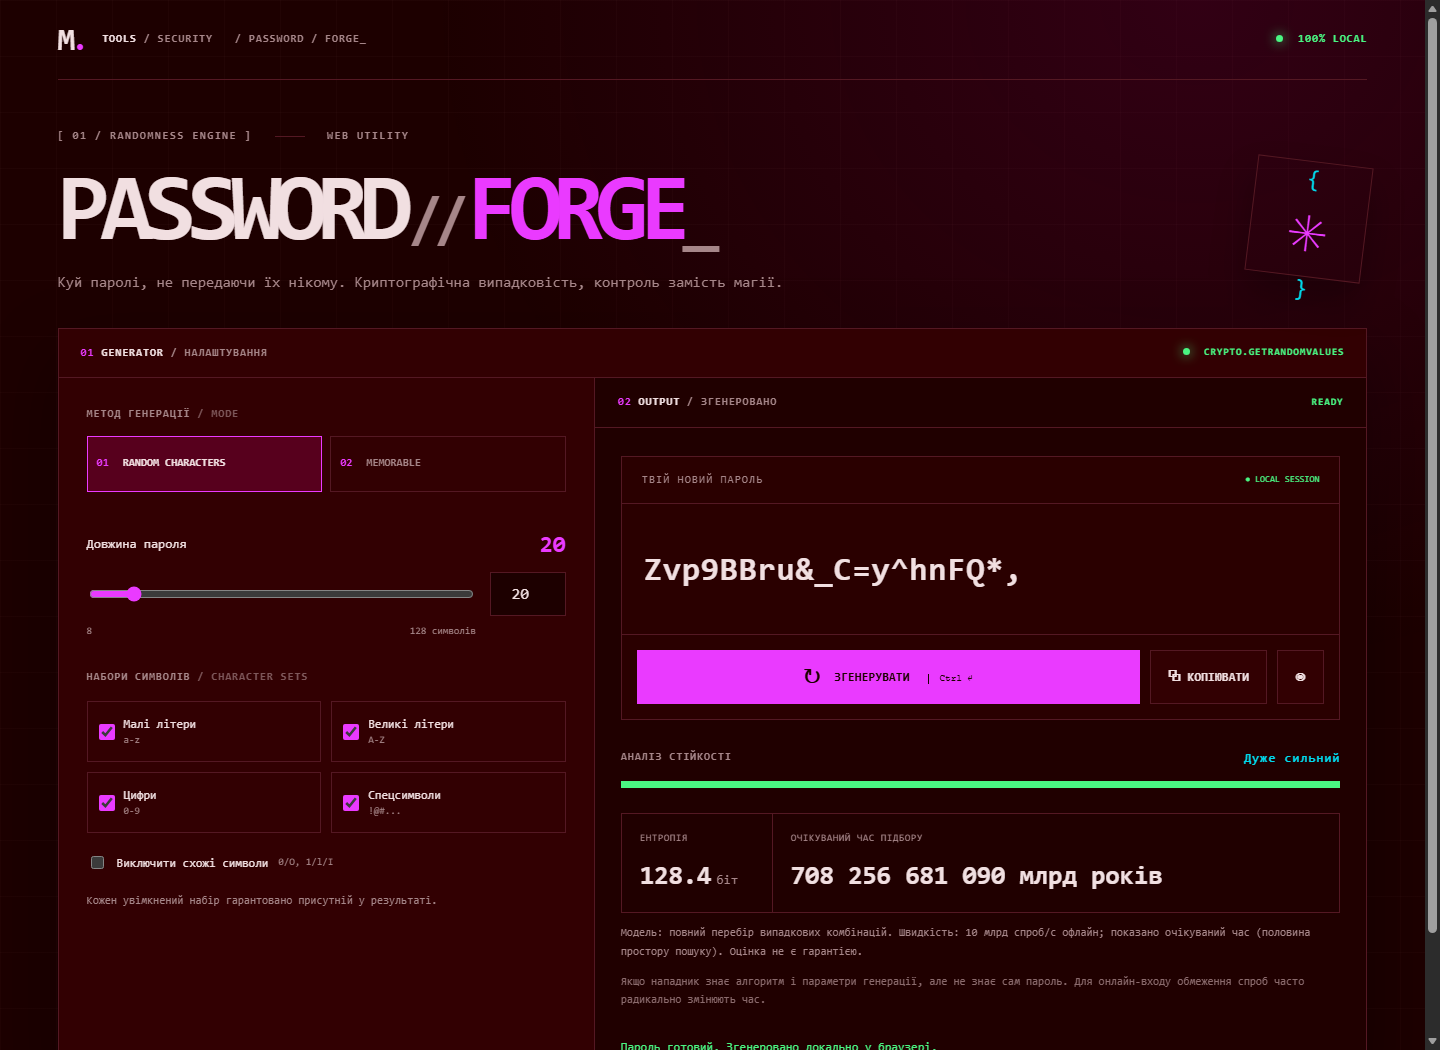
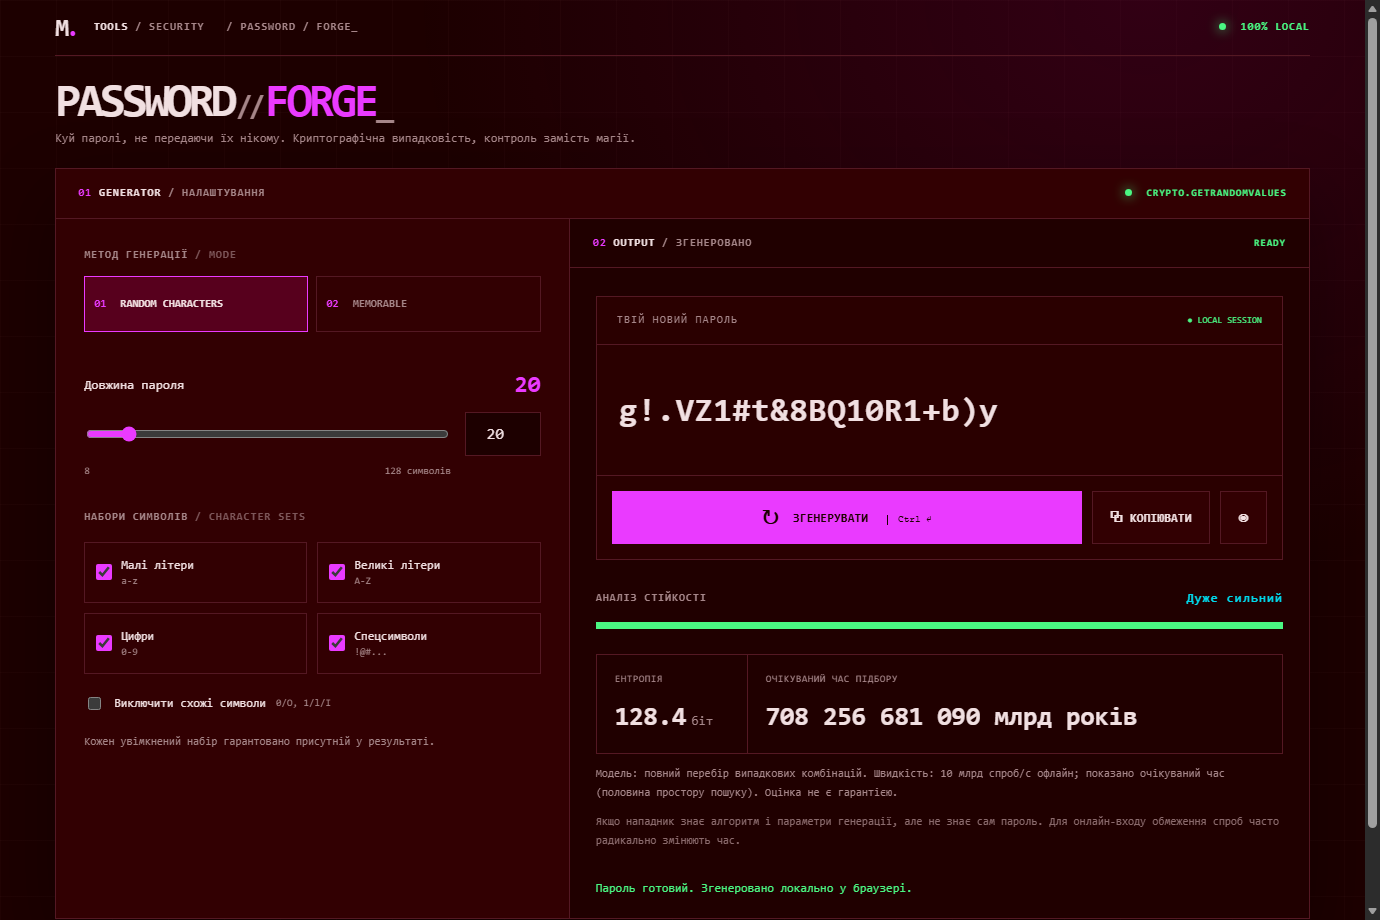
feat: compact header and configurable memorable passphrases

diff --git a/app.js b/app.js
@@ -2,6 +2,7 @@ import { randomPassword, randomPhrase, characterEntropy, phraseEntropy, estimate
 
 const el = id => document.getElementById(id);
 const toggles = ['lower','upper','digits','symbols','unambiguous'];
+const phraseToggles = ['phrase-upper','phrase-digits','phrase-symbols'];
 let mode = 'random';
 let words = null;
 let current = '';
@@ -14,6 +15,13 @@ function error(message) {
 function opts() {
   return {length:Number(el('length').value), ...Object.fromEntries(toggles.map(k => [k, el(k).checked]))};
 }
+function phraseOpts() {
+  return {
+    uppercase: el('phrase-upper').checked,
+    digits: el('phrase-digits').checked,
+    symbols: el('phrase-symbols').checked
+  };
+}
 function clampRange(name,min,max) {
   const slider=el(name), number=el(name+'-number');
   const raw=Number(number.value);
@@ -24,7 +32,7 @@ function clampRange(name,min,max) {
 function render() {
   if (!current || (mode === 'phrase' && !words)) return;
   el('password').textContent = visible ? current : '•'.repeat(Math.min(current.length,128));
-  const bits = mode==='random' ? characterEntropy(opts()) : phraseEntropy(words.length,Number(el('words').value));
+  const bits = mode==='random' ? characterEntropy(opts()) : phraseEntropy(words.length,Number(el('words').value),phraseOpts());
   const grade = strength(bits);
   el('strength-label').textContent = grade.text;
   const meter = el('meter-fill').parentElement;
@@ -34,13 +42,13 @@ function render() {
   el('time').textContent = humanTime(estimateSeconds(bits));
   el('attack-desc').textContent = (mode==='random'
     ? 'Модель: повний перебір випадкових комбінацій.'
-    : 'Модель: словниковий перебір комбінацій зі списку EFF, якщо алгоритм генерації відомий.')
+    : 'Модель: перебір усіх комбінацій слів EFF, регістру та ввімкнених випадкових суфіксів, якщо алгоритм відомий.')
     + ' Швидкість: 10 млрд спроб/с офлайн; показано очікуваний час (половина простору пошуку). Оцінка не є гарантією.';
 }
 function generate() {
   try {
     if (mode==='phrase' && !words) { current=''; el('password').textContent='Завантаження словника…'; error('Словник ще завантажується.');return; }
-    const value = mode==='random' ? randomPassword(opts()) : randomPhrase(words,Number(el('words').value),el('separator').value);
+    const value = mode==='random' ? randomPassword(opts()) : randomPhrase(words,Number(el('words').value),el('separator').value,globalThis.crypto,phraseOpts());
     current=value; el('status').textContent='READY';
     el('feedback').textContent='Пароль готовий. Згенеровано локально у браузері.';
     render();
@@ -65,7 +73,7 @@ for(const name of ['length','words']) {
   range.addEventListener('change',generate);
   number.addEventListener('change',()=>{clampRange(name,min,max);generate()});
 }
-for (const name of toggles) el(name).addEventListener('change',generate);
+for (const name of [...toggles, ...phraseToggles]) el(name).addEventListener('change',generate);
 el('separator').addEventListener('change',generate);
 el('generate').addEventListener('click',generate);
 el('show').addEventListener('click',()=>{

diff --git a/logic.js b/logic.js
@@ -4,6 +4,7 @@ export const DIGITS = '0123456789';
 export const SYMBOLS = '!@#$%^&*()-_=+[]{};:,.?/';
 export const AMBIGUOUS = new Set('Il1O0o|');
 export const ATTACK_RATE = 1e10;
+export const PHRASE_SYMBOLS = '!@#$%^&*+?=';
 
 export function secureInt(max, cryptoSource = globalThis.crypto) {
   if (!Number.isSafeInteger(max) || max <= 0 || max > 4294967296) throw new RangeError('invalid random bound');
@@ -38,11 +39,28 @@ export function randomPassword(opts, cryptoSource = globalThis.crypto) {
   throw new Error('Could not satisfy chosen constraints');
 }
 
-export function randomPhrase(words, count, separator = '-', cryptoSource = globalThis.crypto) {
+export function randomPhrase(words, count, separator = '-', cryptoSource = globalThis.crypto, options = {}) {
   if (!Array.isArray(words) || words.length < 1000 || !words.every(w => /^[a-z]+$/.test(w))) throw new Error('Invalid dictionary');
   if (!Number.isInteger(count) || count < 4 || count > 12) throw new RangeError('words: 4..12');
   if (!['-', ' ', '.', '_'].includes(separator)) throw new Error('Invalid separator');
-  return Array.from({ length: count }, () => words[secureInt(words.length, cryptoSource)]).join(separator);
+
+  const selected = Array.from({ length: count }, () => words[secureInt(words.length, cryptoSource)]);
+
+  // Non-zero capitalization mask: every enabled output has >=1 capitalized word.
+  // Each mask is equiprobable; no extra entropy is claimed for deterministic casing.
+  if (options.uppercase) {
+    const mask = 1 + secureInt(2 ** count - 1, cryptoSource);
+    for (let i = 0; i < count; i++) {
+      if (mask & (1 << i)) selected[i] = selected[i][0].toUpperCase() + selected[i].slice(1);
+    }
+  }
+  // Stable, non-overlapping suffix positions allow exact output-count accounting.
+  let result = selected.join(separator);
+  if (options.digits) {
+    result += DIGITS[secureInt(10, cryptoSource)] + DIGITS[secureInt(10, cryptoSource)];
+  }
+  if (options.symbols) result += PHRASE_SYMBOLS[secureInt(PHRASE_SYMBOLS.length, cryptoSource)];
+  return result;
 }
 
 export function characterEntropy(opts) {
@@ -61,9 +79,13 @@ export function characterEntropy(opts) {
   return opts.length * Math.log2(total) + Math.log2(Math.max(Number.MIN_VALUE, probability));
 }
 
-export function phraseEntropy(dictionarySize, count) {
+export function phraseEntropy(dictionarySize, count, options = {}) {
   if (dictionarySize < 2 || count < 1) return 0;
-  return count * Math.log2(dictionarySize);
+  const wordsBits = count * Math.log2(dictionarySize);
+  const capitalizationBits = options.uppercase ? Math.log2(2 ** count - 1) : 0;
+  const digitsBits = options.digits ? Math.log2(100) : 0;
+  const symbolsBits = options.symbols ? Math.log2(PHRASE_SYMBOLS.length) : 0;
+  return wordsBits + capitalizationBits + digitsBits + symbolsBits;
 }
 
 export function estimateSeconds(bits, rate = ATTACK_RATE) {

diff --git a/index.html b/index.html
@@ -81,7 +81,13 @@
               <option value="_">Підкреслення ( _ )</option>
             </select>
           </label>
-          <p class="small-note">Слова обираються криптографічно з англомовного списку EFF. Це випадкова фраза, а не цитата.</p>
+          <div class="section-label spaced">ДОДАТКОВІ СИМВОЛИ <span>/ OPTIONAL</span></div>
+          <div class="checks phrase-checks">
+            <label><input id="phrase-upper" type="checkbox"><span>Верхній регістр <small>Випадкові слова з великої</small></span></label>
+            <label><input id="phrase-digits" type="checkbox"><span>Цифри <small>2 випадкові наприкінці</small></span></label>
+            <label><input id="phrase-symbols" type="checkbox"><span>Спецсимвол <small>1 випадковий наприкінці</small></span></label>
+          </div>
+          <p class="small-note">Слова обираються криптографічно зі словника EFF. Великі літери розподіляються випадково, цифри й спецсимвол додаються суфіксами; їхня ентропія врахована.</p>
         </div>
       </section>
 

diff --git a/style.css b/style.css
@@ -116,3 +116,23 @@ kbd{font-size:9px;font-weight:400;margin-left:12px;border-left:1px solid current
  h1{font-size:clamp(2.4rem,9vw,4rem)}
 }
 @media(prefers-reduced-motion:reduce){*{transition:none!important}}
+
+/* Compact application header: prioritize generator controls above the fold. */
+.topbar{min-height:56px}
+.brand strong{font-size:25px}
+.hero{padding:18px 0 21px}
+.hero .eyebrow{display:none}
+.hero h1{font-size:clamp(1.8rem,3.4vw,3.15rem);letter-spacing:-.075em;margin:0 0 2px;line-height:1.14}
+.hero p{font-size:12px;line-height:1.5}
+.hero .sigil{display:none}
+.phrase-checks{margin-top:11px}
+.phrase-checks label{min-width:0}
+.phrase-checks label span{min-width:0}
+.phrase-checks small{white-space:normal}
+@media(max-width:900px){.hero{padding:14px 0 16px}}
+@media(max-width:550px){
+ .hero h1{font-size:clamp(1.62rem,7.5vw,2rem)}
+ .hero p{font-size:11px}
+ .topbar{min-height:52px}
+ .phrase-checks{grid-template-columns:minmax(0,1fr)}
+}

diff --git a/README.md b/README.md
@@ -19,7 +19,7 @@
 | Feature | Details |
 |:--|:--|
 | **Random characters** | Length 8–128, lower/uppercase, digits, symbols. Guarantees at least one character from every enabled set. |
-| **Memorable passphrases** | 4–12 independent words from a locally bundled list based on the EFF long wordlist. Choose a separator. |
+| **Memorable passphrases** | 4–12 independent EFF wordlist words, configurable separator and optional random capitalization, two-digit suffix and a random special-character suffix. |
 | **Strength meter** | Model-based entropy in bits, qualitative strength and a transparent time-to-guess estimate. |
 | **Thoughtful controls** | Exclude similar characters, reveal/mask, copy with one click, keyboard shortcut. |
 | **Accessibility** | Labelled controls, keyboard navigation, readable contrast, responsive layout and reduced-motion support. |
@@ -34,7 +34,7 @@ Built around **design-mandrock0**: arterial-black reds, ultraviolet accents, ter
 - All random choices use <code>crypto.getRandomValues()</code>, with **rejection sampling** to avoid modulo bias.
 - Character-based passwords are sampled **uniformly from strings satisfying the enabled-set constraints**. The implementation rejects any candidate missing a selected set.
 - Passphrases sample each word independently. The dictionary has **7,772 unique alphabetic words** drawn from the [EFF long wordlist](https://www.eff.org/files/2016/07/18/eff_large_wordlist.txt). Four hyphenated entries are omitted to keep the hyphen as an unambiguous separator.
-- Entropy is derived from the number of possible outputs, not arbitrary rules about capitalization or punctuation. In character mode, exact probability correction for required sets uses inclusion-exclusion. In passphrase mode, entropy is <code>word_count × log₂(7772)</code>.
+- Entropy is derived from the number of possible outputs, not arbitrary rules about capitalization or punctuation. In character mode, exact probability correction for required sets uses inclusion-exclusion. In passphrase mode, baseline entropy is <code>word_count × log₂(7772)</code>. Optional additions contribute <code>log₂(2^word_count − 1)</code> for nonempty randomly chosen capitalization masks, <code>log₂(100)</code> for the independent two-digit suffix and <code>log₂(11)</code> for the independent symbol suffix.
 - Time to guess assumes an **offline attacker trying 10 billion guesses per second**, knowing the generator and its parameters, and averages over half the possibilities. It is a *model*, **not a prediction** of how long any specific real-world attack will take.
 - Changing passphrase separators changes readability, **not entropy**; known punctuation contributes no additional security.
 - No generated secret is transmitted, persisted or logged. Copying uses the system clipboard, which may retain the value outside this app.
